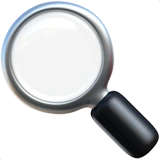
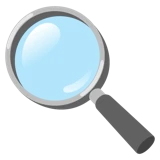
Swap the Apple emoji on /services for Noto
The three process step icons above Diagnose, Plan, and Maintain were Apple
Color Emoji, pulled in when the page was built. Apple licenses that artwork
for use on Apple platforms only, so serving it off Simon's own domain was
never his to do. Replaced with Noto Emoji, Apache 2.0, commercial use fine
and no attribution required.

Regenerated at the same 160px the Apple set used, so the render size in
services/page.tsx is untouched.

Adds public/CREDITS.md with the licence, the reasoning, and the commands to
regenerate. It also records two things left alone: cookie.webp, which is not
Apple's but whose source is untraced, and claude.webp, which is a logo and so
a trademark question rather than an emoji one.

Claude-Session: https://claude.ai/code/session_0173B9okrfgu57xbzTbRvZnT

diff --git a/src/app/services/page.tsx b/src/app/services/page.tsx
@@ -93,7 +93,9 @@ const resultIcons: ReactNode[] = [
   </>,
 ];
 
-// Big Apple-emoji art for the process steps (same order as processSteps).
+// Big emoji art for the process steps (same order as processSteps).
+// Noto Emoji, Apache 2.0. See public/CREDITS.md before swapping the set:
+// these were Apple's, which is not licensable off an Apple platform.
 const stepEmoji = ["/diagnose.webp", "/plan.webp", "/maintain.webp"];
 
 export const metadata: Metadata = {

diff --git a/public/CREDITS.md b/public/CREDITS.md
@@ -1,0 +1,47 @@
+# Third-party artwork
+
+## Process step icons
+
+`diagnose.webp`, `plan.webp`, `maintain.webp` — the three 160px discs above the
+Diagnose / Plan / Maintain cards on `/services`, wired up by `stepEmoji` in
+`src/app/services/page.tsx`. Rendered at 64px, so 160 is comfortably retina.
+
+**Noto Emoji**, from `googlefonts/noto-emoji`, Apache License 2.0. Free to use
+commercially, no attribution required on the page. Recorded here anyway, because
+a licence you cannot trace is a licence you cannot defend.
+
+### Why not Apple's
+
+These shipped as the Apple set from June 2026 (commit `c58b1e3`) until
+2026-08-17, because Apple's are the ones people picture when they say "emoji".
+They came out because Apple Color Emoji is licensed for use on Apple platforms
+only, so serving the artwork off Simon's own domain is not his to do. Hazem
+caught it and made the call to swap.
+
+If the glossy look is wanted back, the licensable options are Twemoji
+(CC BY 4.0, needs visible attribution somewhere on the site) or OpenMoji
+(CC BY-SA 4.0, whose share-alike terms are not worth it for an icon). Noto is
+the one with no strings.
+
+### Regenerating
+
+```sh
+# code -> name, matching the stepEmoji order in src/app/services/page.tsx
+# 1f50d diagnose   1f4cb plan   1f504 maintain
+curl -sfL "https://raw.githubusercontent.com/googlefonts/noto-emoji/main/png/512/emoji_u<code>.png" -o /tmp/e.png
+sips -z 160 160 /tmp/e.png --out /tmp/e-160.png
+cwebp -q 90 -alpha_q 100 /tmp/e-160.png -o public/<name>.webp
+```
+
+Some codepoints are filed with a variation selector, so if `emoji_u<code>.png`
+404s try `emoji_u<code>_fe0f.png`.
+
+## Unresolved
+
+`cookie.webp` — the icon in the cookie consent banner (`CookieConsent.tsx`).
+Not Apple's set (Apple's cookie has no bite taken out of it), but the source is
+untraced, so the licence is unknown. Either find where it came from or replace
+it with Noto `1f36a` on the same principle as above.
+
+`claude.webp` — used by `ClaudeGif.tsx`. A logo rather than emoji art, so this
+is a trademark question, not an emoji licensing one. Not reviewed.
